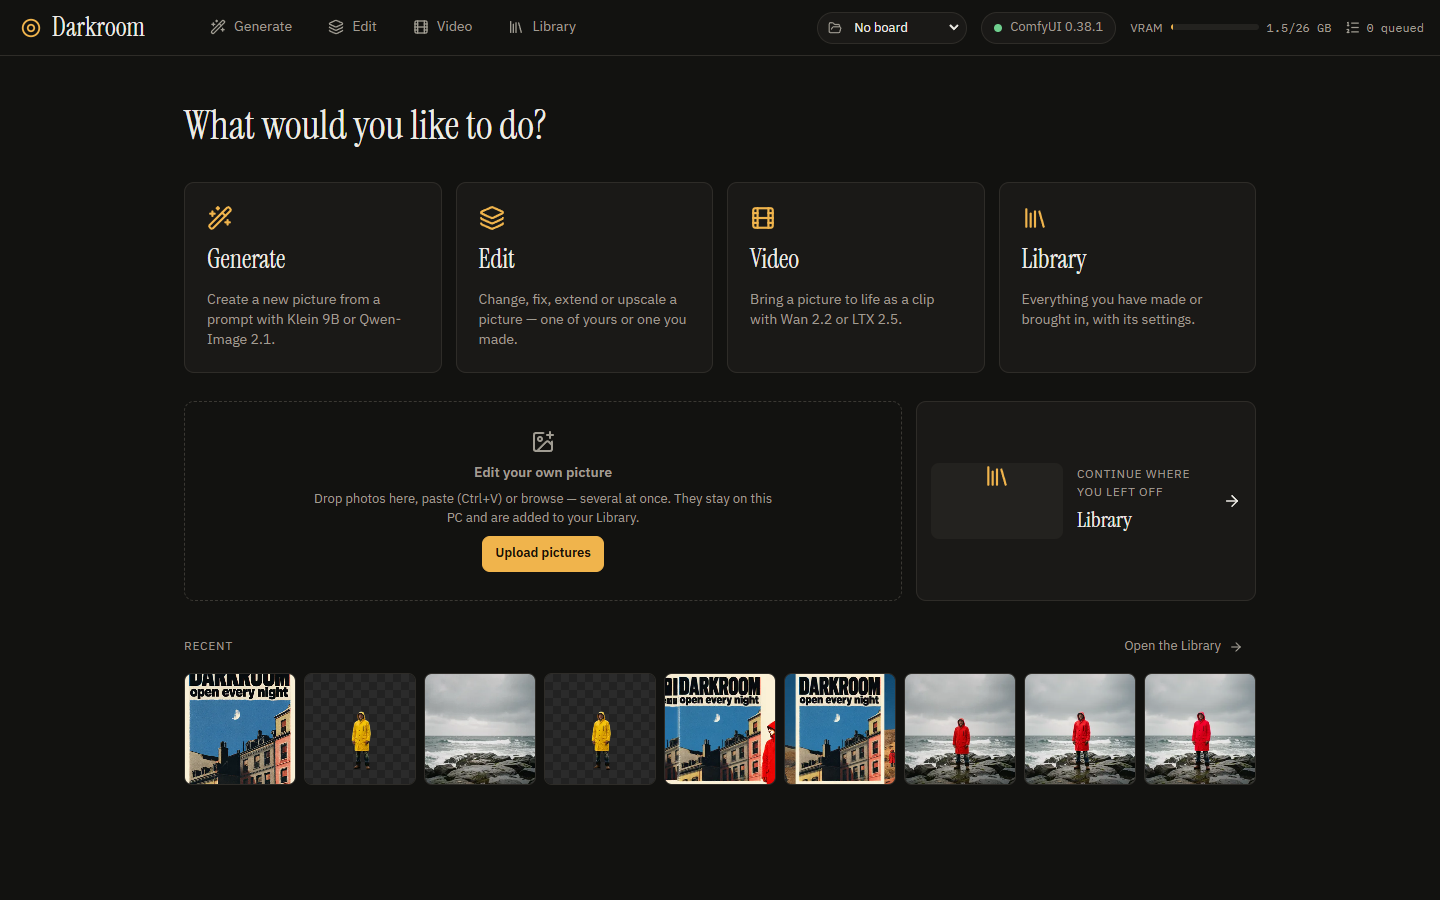
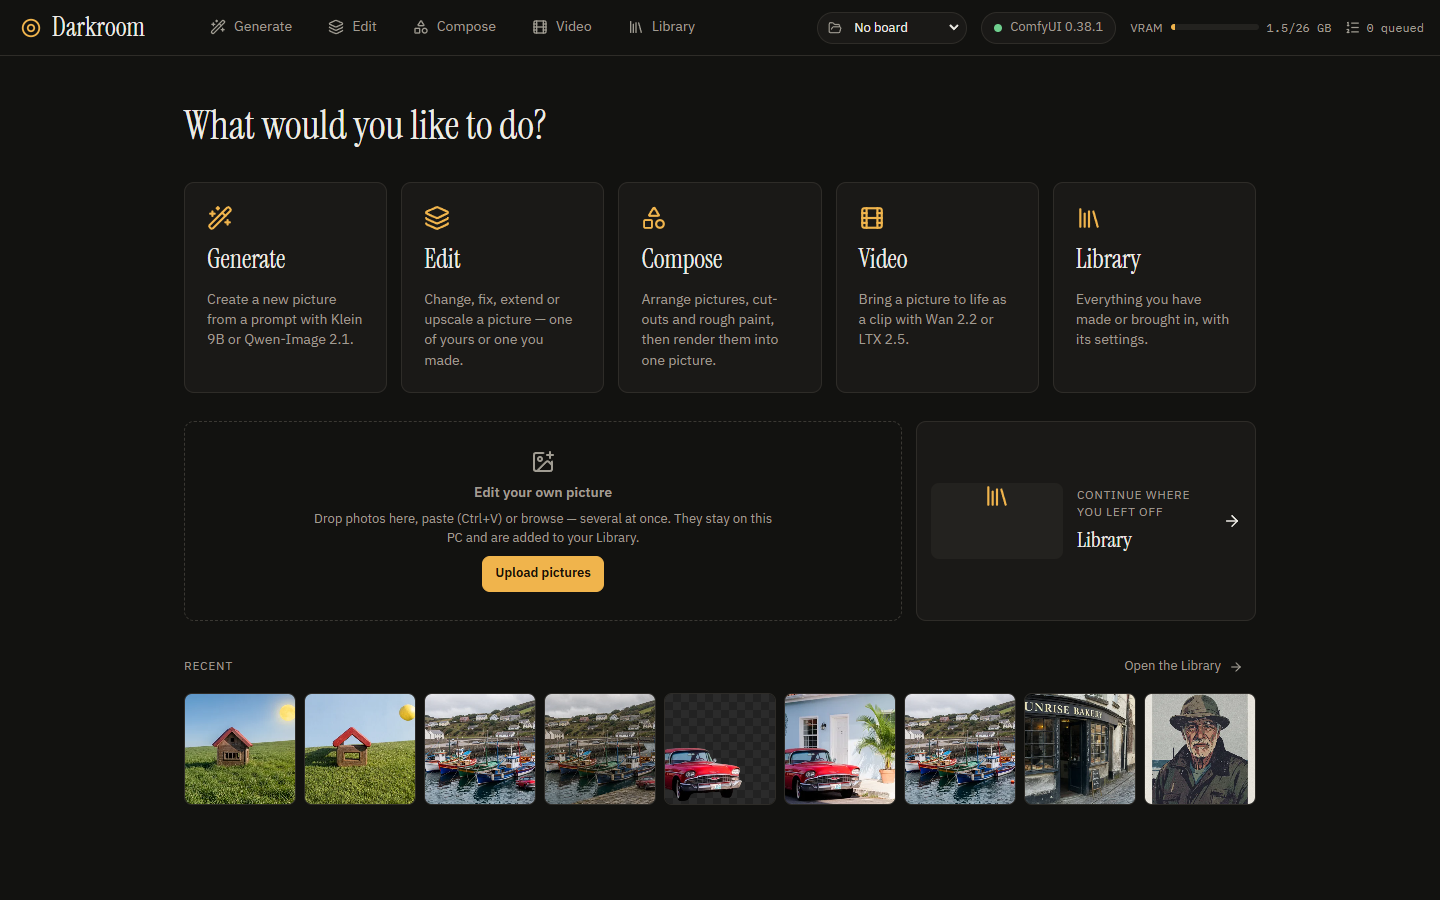
Compose e2e: cut-out, move/scale with ground line, undo, Harmonise and Blend edges renders, paint suggests Reimagine, save/reopen/delete; Home lists five screens

diff --git a/e2e/features-v2.spec.ts b/e2e/features-v2.spec.ts
@@ -321,13 +321,13 @@ test.describe.serial('Darkroom v2 features', () => {
     }
   });
 
-  test('Home: Darkroom opens on Home, with the four screens and "Continue where you left off"', async () => {
+  test('Home: Darkroom opens on Home, with the five screens and "Continue where you left off"', async () => {
     await page.goto('/#/library');
     await expect(page.getByRole('region', { name: 'Library' })).toBeVisible();
     await page.goto('/');
     await expect(page.getByRole('heading', { name: 'What would you like to do?' })).toBeVisible();
     const start = page.getByRole('navigation', { name: 'Start' });
-    for (const name of ['Generate', 'Edit', 'Video', 'Library']) await expect(start.getByRole('button', { name: new RegExp(`^${name}`) })).toBeVisible();
+    for (const name of ['Generate', 'Edit', 'Compose', 'Video', 'Library']) await expect(start.getByRole('button', { name: new RegExp(`^${name}`) })).toBeVisible();
     await shot(page, 'home');
     await page.getByRole('button', { name: /Continue where you left off/ }).click();
     await expect(page).toHaveURL(/#\/library$/);
@@ -606,6 +606,135 @@ test.describe.serial('Darkroom v2 features', () => {
       expect(r.status()).toBe(400);
       expect((await r.json()).error).toMatch(/is not a Klein 9B LoRA/);
     }
+  });
+
+  // Compose (DECISIONS 87)
+  let compositionUrl = '';
+  test('Compose: start from a picture, cut out a piece, move and scale it on the ground line, undo, Harmonise into the Library', async () => {
+    await page.goto('/#/compose');
+    await page.getByLabel('Upload a background picture').setInputFiles('tests/golden/08_lowres_src.png');
+    await expect(page).toHaveURL(/#\/compose\/[0-9a-f-]+$/, { timeout: 60_000 });
+    compositionUrl = page.url();
+    await expect(page.getByRole('button', { name: 'Select Background' })).toBeVisible();
+    await expect(page.getByLabel('Composition name')).toHaveValue(/^Composition \d+$/);
+    // the canvas takes the background's shape at about 1 MP
+    await expect(page.getByText('1248 × 832')).toBeVisible();
+
+    await page.getByLabel('Upload pictures to the canvas').setInputFiles('tests/golden/09_car.png');
+    await expect(page.getByRole('button', { name: /^Select 09_car/ })).toBeVisible({ timeout: 60_000 });
+    const sel = page.locator('.compose-select');
+    const boxed = (await sel.boundingBox())!;
+    await page.getByRole('button', { name: 'Cut out' }).click();
+    await expect(page.getByText('cut-out', { exact: true })).toBeVisible({ timeout: 90_000 });
+    // trimmed to the car: a smaller box than the whole photo, and the cut-out is in the Library
+    const trimmed = (await sel.boundingBox())!;
+    expect(trimmed.height).toBeLessThan(boxed.height);
+    expect((await firstItem(page, (i) => i.mode === 'edit:remove_bg' && i.prompt === '09_car'))?.id).toBeTruthy();
+
+    // drag: the ground line shows where it stands
+    const canvas = (await page.getByRole('application', { name: 'Canvas' }).boundingBox())!;
+    await page.mouse.move(trimmed.x + trimmed.width / 2, trimmed.y + trimmed.height / 2);
+    await page.mouse.down();
+    await page.mouse.move(canvas.x + canvas.width * 0.75, canvas.y + canvas.height * 0.78, { steps: 6 });
+    await expect(page.locator('.compose-ground')).toBeVisible();
+    await page.mouse.up();
+    await expect(page.locator('.compose-ground')).toHaveCount(0);
+    // scale from the top-left corner, keeping the shape
+    const before = (await sel.boundingBox())!;
+    const nw = (await page.locator('.compose-handle.nw').boundingBox())!;
+    await page.mouse.move(nw.x + 7, nw.y + 7);
+    await page.mouse.down();
+    await page.mouse.move(nw.x + 7 + before.width * 0.3, nw.y + 7 + before.height * 0.3, { steps: 5 });
+    await page.mouse.up();
+    const after = (await sel.boundingBox())!;
+    expect(after.width).toBeLessThan(before.width * 0.8);
+    expect(after.width / after.height).toBeCloseTo(before.width / before.height, 1);
+    await page.keyboard.press('Control+z');
+    expect(Math.round((await sel.boundingBox())!.width)).toBe(Math.round(before.width));
+    await page.keyboard.press('Control+y');
+    expect(Math.round((await sel.boundingBox())!.width)).toBe(Math.round(after.width));
+    await shot(page, 'compose-placed');
+
+    // photo pieces → Harmonise is suggested (Qwen)
+    const modes = page.getByRole('group', { name: 'Render mode' });
+    await expect(modes.getByRole('button', { name: /Harmonise/ })).toHaveAttribute('aria-pressed', 'true');
+    await expect(modes.getByRole('button', { name: /Harmonise/ })).toContainText('Suggested');
+    await page.getByLabel('Scene description').fill('a red classic car parked on the stone quay of a fishing harbour, overcast day');
+    const sent = page.waitForRequest((r) => r.url().endsWith('/api/jobs') && r.method() === 'POST' && r.postDataJSON().meta?.mode === 'compose');
+    await page.getByRole('button', { name: /^Render/ }).click();
+    const body = (await sent).postDataJSON();
+    expect(body.workflow).toBe('qwen_edit');
+    expect(body.params.mask).toBeUndefined();
+    expect(body.params.prompt).toMatch(/The scene: a red classic car parked on the stone quay/);
+    await expect(page.locator('.compose-view img')).toBeVisible({ timeout: 180_000 });
+    await expect(page.getByRole('list', { name: 'Renders' }).getByRole('listitem')).toHaveCount(1);
+    const it = await firstItem(page, (i) => i.mode === 'compose');
+    expect(it.ui.compositionId).toBe(compositionUrl.split('/').pop());
+    expect(it.model).toMatch(/Qwen-Image 2.1 · Harmonise/);
+    await shot(page, 'compose-harmonised');
+  });
+
+  test('Compose: Blend edges sends a seam mask; paint suggests Reimagine; saved, reopened, deleted with Undo', async () => {
+    // Blend edges on the same canvas: a white band round the car on black
+    await page.getByRole('button', { name: 'Back to canvas' }).click();
+    await page.getByRole('group', { name: 'Render mode' }).getByRole('button', { name: /Blend edges/ }).click();
+    const sent = page.waitForRequest((r) => r.url().endsWith('/api/jobs') && r.method() === 'POST' && r.postDataJSON().meta?.mode === 'compose');
+    await page.getByRole('button', { name: /^Render/ }).click();
+    const body = (await sent).postDataJSON();
+    expect(body.params.mask).toBeTruthy();
+    expect(body.params.feather).toBe(12);
+    const mask = await sharp(Buffer.from(await (await page.request.get(`/api/input?name=${encodeURIComponent(body.params.mask)}`)).body())).greyscale().raw().toBuffer({ resolveWithObject: true });
+    const white = [...mask.data].filter((v) => v > 127).length / mask.data.length;
+    expect(white).toBeGreaterThan(0.005);
+    expect(white).toBeLessThan(0.1); // only the seams, never the whole picture
+    await expect(page.getByRole('list', { name: 'Renders' }).getByRole('listitem')).toHaveCount(2, { timeout: 180_000 });
+
+    // continue from a render: it becomes the background, the old layers are hidden (not removed)
+    await page.getByRole('list', { name: 'Renders' }).getByRole('listitem').first().click();
+    await page.getByRole('button', { name: 'Continue from this' }).click();
+    await expect(page.getByRole('button', { name: 'Select Render' })).toBeVisible();
+    await expect(page.getByRole('button', { name: 'Show 09_car' })).toBeVisible();
+    await expect(page.locator('.compose-layers li')).toHaveCount(3);
+
+    // saved: reopening brings the layers and renders back
+    await expect(page.getByText('Saved', { exact: true })).toBeVisible({ timeout: 10_000 });
+    await page.reload();
+    await expect(page.locator('.compose-layers li')).toHaveCount(3);
+    await expect(page.getByRole('list', { name: 'Renders' }).getByRole('listitem')).toHaveCount(2);
+
+    // a paint-only canvas → Reimagine is suggested
+    await page.goto('/#/compose');
+    await page.getByRole('button', { name: 'New composition' }).click();
+    await expect(page).toHaveURL(/#\/compose\/[0-9a-f-]+$/);
+    await page.getByRole('button', { name: 'Paint (B)' }).click();
+    const c = (await page.getByRole('application', { name: 'Canvas' }).boundingBox())!;
+    await page.getByLabel('Brush size').fill('300');
+    for (const y of [0.15, 0.4, 0.65, 0.9]) {
+      await page.mouse.move(c.x + 5, c.y + c.height * y);
+      await page.mouse.down();
+      await page.mouse.move(c.x + c.width - 5, c.y + c.height * y, { steps: 5 });
+      await page.mouse.up();
+    }
+    await expect(page.locator('.compose-layers li')).toHaveCount(1);
+    await expect(page.getByRole('group', { name: 'Render mode' }).getByRole('button', { name: /Reimagine/ })).toContainText('Suggested', { timeout: 5_000 });
+    await page.getByRole('button', { name: 'Erase paint (E)' }).click();
+    await page.mouse.move(c.x + c.width / 2, c.y + 10);
+    await page.mouse.down();
+    await page.mouse.move(c.x + c.width / 2, c.y + c.height - 10, { steps: 5 });
+    await page.mouse.up();
+    await page.keyboard.press('Control+z');
+    await expect(page.getByText('Saved', { exact: true })).toBeVisible({ timeout: 10_000 });
+    const name = await page.getByLabel('Composition name').inputValue();
+
+    // the start page lists it with a thumbnail; delete with Undo
+    await page.getByRole('button', { name: '← All compositions' }).click();
+    const item = page.getByRole('listitem').filter({ hasText: name });
+    await expect(item.locator('img')).toBeVisible();
+    await shot(page, 'compose-list');
+    await item.getByRole('button', { name: `Delete ${name}` }).click();
+    await expect(page.getByRole('listitem').filter({ hasText: name })).toHaveCount(0);
+    await page.getByRole('button', { name: 'Undo' }).last().click();
+    await expect(page.getByRole('listitem').filter({ hasText: name })).toHaveCount(1);
   });
 
   test('Library: Upload adds your pictures to the Library', async () => {

diff --git a/src/web/screens/Compose.tsx b/src/web/screens/Compose.tsx
@@ -15,6 +15,7 @@ import {
   Plus,
   Redo2,
   Scissors,
+  Sparkles,
   Trash2,
   Undo2,
   Upload,
@@ -145,7 +146,7 @@ function ComposeStart() {
               </button>
               {busy && <Loader2 size={16} className="spin" aria-label="Working" />}
             </div>
-            <input ref={upload} type="file" accept="image/*" hidden onChange={(e) => (void fromFile([...(e.target.files ?? [])]), (e.target.value = ''))} />
+            <input ref={upload} type="file" accept="image/*" hidden aria-label="Upload a background picture" onChange={(e) => (void fromFile([...(e.target.files ?? [])]), (e.target.value = ''))} />
           </section>
         </div>
 
@@ -762,7 +763,7 @@ function ComposeEditor({ id }: { id: string }) {
                 <Paintbrush size={15} /> Paint layer
               </button>
             </div>
-            <input ref={upload} type="file" accept="image/*" multiple hidden onChange={(e) => (void addFiles([...(e.target.files ?? [])]), (e.target.value = ''))} />
+            <input ref={upload} type="file" accept="image/*" multiple hidden aria-label="Upload pictures to the canvas" onChange={(e) => (void addFiles([...(e.target.files ?? [])]), (e.target.value = ''))} />
           </div>
 
           {(tool === 'brush' || tool === 'eraser') && (
@@ -859,16 +860,16 @@ function ComposeEditor({ id }: { id: string }) {
             {MODES.find((m) => m.id === mode)!.text}
             {doc.mode === 'auto' ? ` Suggested because ${auto.why}.` : ''}
           </p>
-          <div className="row" style={{ justifyContent: 'space-between' }}>
-            <span className="note">Scene</span>
-            <button className="btn ghost sm" onClick={() => void describe()} disabled={describing || !doc.layers.length} title="Let the local vision model describe the real scene your canvas stands for">
-              {describing ? <Loader2 size={14} className="spin" /> : null} Describe
+          <div className="row" style={{ justifyContent: 'space-between', alignItems: 'center', width: '100%' }}>
+            <span className="note">Scene (optional)</span>
+            <button className="btn sm" onClick={() => void describe()} disabled={describing || !doc.layers.length} title="Let the local vision model describe the real scene your canvas stands for">
+              {describing ? <Loader2 size={14} className="spin" /> : <Sparkles size={14} />} Describe
             </button>
           </div>
           <textarea
             className="input"
-            rows={3}
-            placeholder="What should the scene be? (optional) e.g. a quiet harbour at dusk"
+            rows={2}
+            placeholder="e.g. a quiet harbour at dusk. Empty: Reimagine describes it for you."
             aria-label="Scene description"
             value={doc.description}
             onChange={(e) => setDocState({ ...doc, description: e.target.value })}
